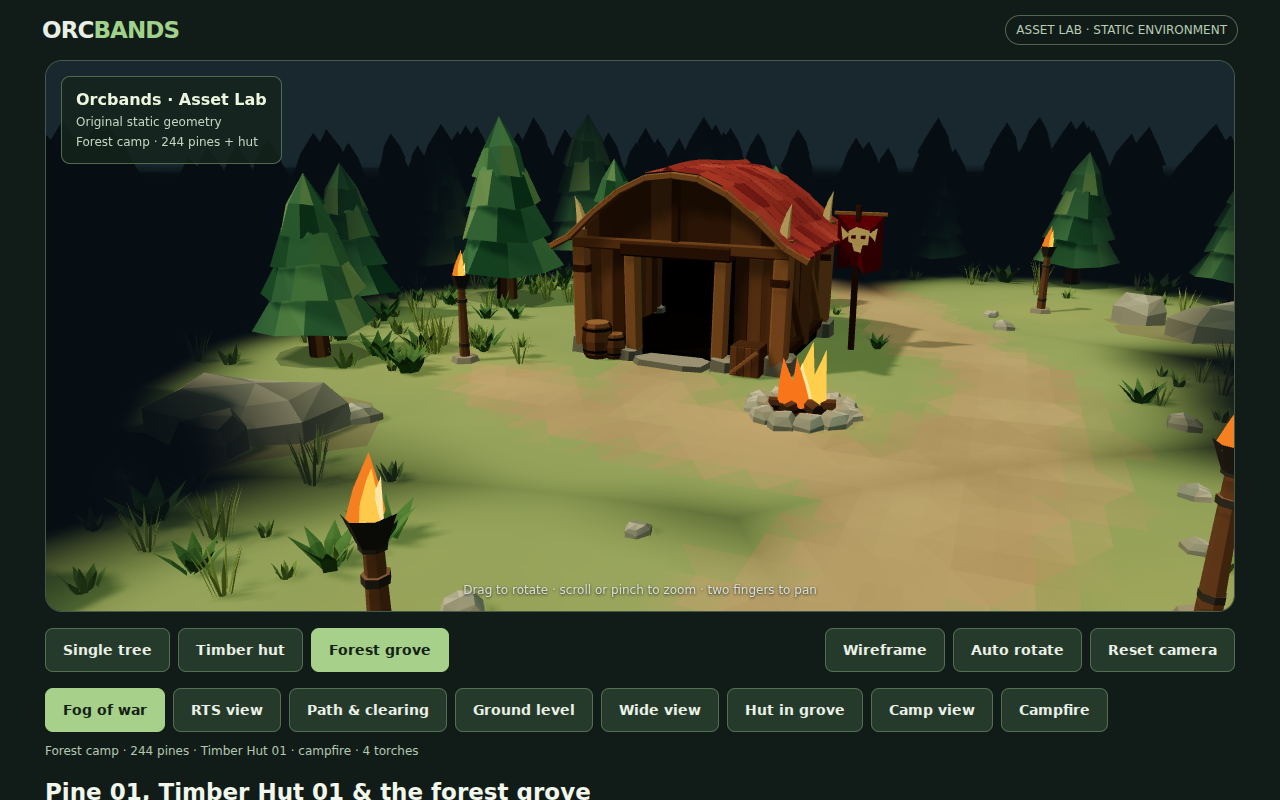
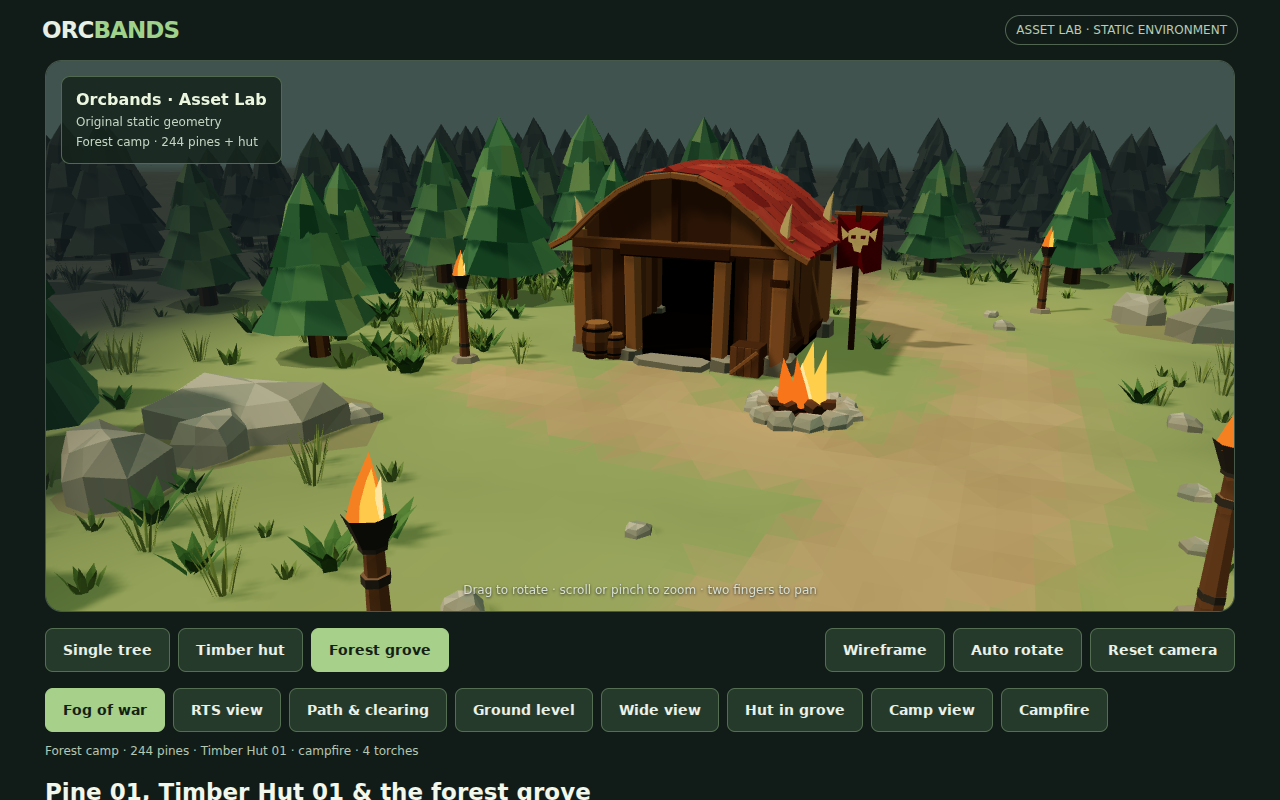
Soften camp fog with broader falloff and muted woodland detail

Changed region(s): [[0.0312, 0.0625, 0.9688, 0.75], [0.4688, 0.625, 0.5938, 0.6875]]

diff --git a/preview/camp-visibility.js b/preview/camp-visibility.js
@@ -7,10 +7,11 @@ export const REVEAL_SOURCES=[
  {...HUT_PLACEMENT,radius:10.5}, {...CAMPFIRE_PLACEMENT,radius:5},
  ...TORCH_PLACEMENTS.map(p=>({...p,radius:6.2}))
 ];
-const feather=3;
+// Keep the clear inner camp; soften through another five metres of woodland.
+const inner=3,outer=5;
 export function visibilityAt(x,z){
  const distance=Math.max(...REVEAL_SOURCES.map(p=>p.radius-Math.hypot(x-p.x,z-p.z)));
- const t=THREE.MathUtils.clamp(distance/feather,0,1);return t*t*(3-2*t);
+ const t=THREE.MathUtils.clamp((distance+outer)/(inner+outer),0,1);return t*t*(3-2*t);
 }
 // A world-space visibility mask on the actual geometry, including instanced trees.
 // No screen overlay, transparent terrain layers, render targets or shadow passes.
@@ -44,11 +45,15 @@ export function buildCampVisibility(root){
     // Tiny boundary undulation keeps the transition from reading as perfect circles.
     float ripple=sin(campFogPosition.x*1.7+sin(campFogPosition.y*.9))*.16
                 +sin(campFogPosition.y*2.1+campFogPosition.x*.6)*.10;
-    float obscured=(1.0-smoothstep(0.0,${feather.toFixed(1)},revealDistance+ripple))*campFogEnabled;
-    outgoingLight=mix(outgoingLight,vec3(.008,.014,.019),obscured);
+    float obscured=(1.0-smoothstep(-${outer.toFixed(1)},${inner.toFixed(1)},revealDistance+ripple))*campFogEnabled;
+    // Retain subdued terrain and tree detail instead of replacing it with black.
+    float luminance=dot(outgoingLight,vec3(.2126,.7152,.0722));
+    vec3 distantLight=mix(vec3(luminance),outgoingLight,.38)*.24;
+    distantLight=mix(distantLight,vec3(.035,.052,.057),.38);
+    outgoingLight=mix(outgoingLight,distantLight,obscured);
     #include <opaque_fragment>`);
   };
-  material.customProgramCacheKey=()=> 'camp-visibility-v1';material.needsUpdate=true;
+  material.customProgramCacheKey=()=> 'camp-visibility-v2';material.needsUpdate=true;
  }
  function update(){root.updateWorldMatrix(true,false);inverse.value.copy(root.matrixWorld).invert()}
  update();

diff --git a/preview/app.js b/preview/app.js
@@ -58,8 +58,8 @@ function resetCamera(){
 }
 function setMode(next){
  mode=next;
- scene.background=next==='grove'?new THREE.Color(fogEnabled?0x19282f:0x9da98c):null;
- scene.fog=next==='grove'?new THREE.Fog(fogEnabled?0x19282f:0x9da98c,85,135):null;
+ scene.background=next==='grove'?new THREE.Color(fogEnabled?0x40534f:0x9da98c):null;
+ scene.fog=next==='grove'?new THREE.Fog(fogEnabled?0x40534f:0x9da98c,85,135):null;
  sun.position.set(...(next==='grove'?[-22,36,18]:[-5,11,7]));
  const extent=next==='grove'?51:13;
  Object.assign(sun.shadow.camera,{left:-extent,right:extent,top:extent,bottom:-extent,far:100});
@@ -82,7 +82,7 @@ document.querySelectorAll('.scene').forEach(b=>b.addEventListener('click',()=>se
 document.getElementById('fog').addEventListener('click',e=>{
  fogEnabled=!fogEnabled;e.currentTarget.setAttribute('aria-pressed',String(fogEnabled));
  campVisibility?.setEnabled(mode==='grove'&&fogEnabled);
- if(mode==='grove'){scene.background.set(fogEnabled?0x19282f:0x9da98c);scene.fog.color.copy(scene.background)}
+ if(mode==='grove'){scene.background.set(fogEnabled?0x40534f:0x9da98c);scene.fog.color.copy(scene.background)}
 });
 document.getElementById('reset').addEventListener('click',resetCamera);
 document.getElementById('spin').addEventListener('click',e=>{

diff --git a/docs/torches-fog.md b/docs/torches-fog.md
@@ -16,13 +16,13 @@ Four original timber-and-iron torches mark the camp's foot trails. Each has a bu
 
 ![Full forest with fog disabled](reviews/torches-fog/grove-fog-off.png)
 
-These are actual Chromium WebGL captures. The first overview left too much empty darkness; the final default/RTS camera moves closer to the inhabited clearing.
+These are actual Chromium WebGL captures. Owner review found the first fog pass too strong. The updated pass widens the feathered edge, preserves dim woodland detail outside the reveal sources and uses a softer green-grey horizon. The closer default/RTS camera keeps the inhabited clearing readable.
 
 ## Visibility
 
-`preview/camp-visibility.js` defines a union of six reveal sources: the hut (10.5 metre radius), campfire (5 metres), and four torches (6.2 metres each). Radius includes a 3 metre soft transition inward from the outer boundary. Overlaps remain clear, rather than stacking darkness. A small spatial ripple breaks up mathematically perfect boundary circles. The reveal area stays fixed as the flames flicker so the fog does not pulse distractingly.
+`preview/camp-visibility.js` defines a union of six reveal sources: the hut (10.5 metre radius), campfire (5 metres), and four torches (6.2 metres each). The soft transition now spans 8 metres: 3 metres inside each radius and another 5 metres into the surrounding woods. Overlaps remain clear, rather than stacking darkness. A small spatial ripple breaks up mathematically perfect boundary circles. The reveal area stays fixed as the flames flicker so the fog does not pulse distractingly.
 
-A small material shader extension darkens the actual geometry by its horizontal distance to these sources. It works with instanced trees and the terrain, without a screen overlay or extra rendering pass. It follows the grove during auto rotation. Distant woodland becomes dark silhouettes; the camp remains in the existing daylight palette. This is stylized visibility, not physical nighttime illumination.
+A small material shader extension darkens the actual geometry by its horizontal distance to these sources. It works with instanced trees and the terrain, without a screen overlay or extra rendering pass. It follows the grove during auto rotation. Distant woodland keeps muted, desaturated detail under a cool green mist; the camp remains in the existing daylight palette. The mask dims the underlying lighting and blends in a restrained mist tint instead of replacing it with near-black. A matching green-grey horizon avoids a hard black backdrop. This is stylized visibility, not physical nighttime illumination.
 
 **Fog of war** starts enabled in the grove. Its button reveals the whole forest when disabled. Single Tree and Timber Hut studio modes disable the mask and preserve their existing lighting and controls.
 
